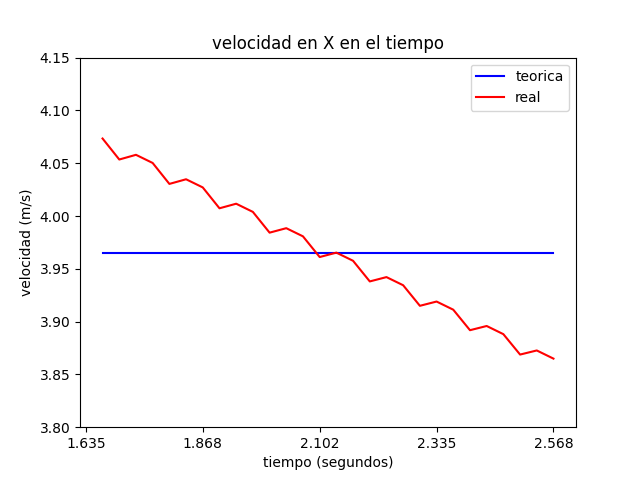
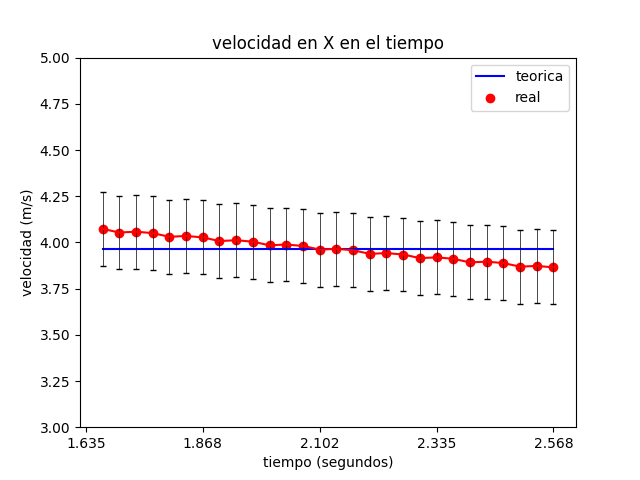
fix velocidad

diff --git a/src/basket-doble/pandas_procesing.py b/src/basket-doble/pandas_procesing.py
@@ -1,15 +1,17 @@
 import pandas as pd
 import matplotlib.pyplot as plt
 import numpy as np
+import src.Teoria_Errores.teoria_error_tiro_doble as error_vx
 
 #variables
 RUTA_CSV = "tablas/trackeo-suavizado-curve-fit-nuevo-origen.csv"
 RUTA_OUTPUT_CSV = "tablas/tabla-moviento-metros.csv"
-RUTA_CARPETA_IMAGENES = "graficos/" #Si esta carpeta no existe da error
+RUTA_CARPETA_IMAGENES = "graficos/"  #Si esta carpeta no existe da error
 
 ### este valor se calcula a partir comparar la medida de un objeto en el video y en la realidad
 ### debe ser calculado para cada video
 VALOR_PIXEL_METRO = 0.447 / 100
+
 
 def parsear_a_metros(valorPixel):
     """
@@ -22,6 +24,7 @@ def parsear_a_metros(valorPixel):
         float: El resultado de la multiplicación.
     """
     return valorPixel * VALOR_PIXEL_METRO
+
 
 def calcular_velocidad(tabla, columna):
     """
@@ -74,7 +77,7 @@ def calcular_aceleracion(tabla, columna):
 
 
 def graficar_velocidad_tiempo(tabla, coordenada, guardar_grafica=None, mostrar_grafica=None,
-                              limy1=None, limy2=None):
+                              limy1=None, limy2=None, error=0):
     """
     Genera un gráfico de dispersión de velocidad contra tiempo para una coordenada dada.
 
@@ -87,26 +90,26 @@ def graficar_velocidad_tiempo(tabla, coordenada, guardar_grafica=None, mostrar_g
     Returns:
         None
     """
-
     vel_coor = "velocity" + coordenada
     velocidad = tabla[vel_coor].iloc[1:]
-    velocidad_teorica = tabla["vel_"+coordenada+"_teorica"].iloc[1:]
+    velocidad_teorica = tabla["vel_" + coordenada + "_teorica"].iloc[1:]
     tiempo = tabla["Time"].iloc[1:]
     # tipo de grafico y variables a usar
-    fig , ax = plt.subplots()
+    fig, ax = plt.subplots()
     ax.plot(tiempo, velocidad_teorica, color="blue", label="teorica")
-    ax.plot(tiempo, velocidad, color="red", label="real")
+    ax.scatter(tiempo, velocidad, color="red", label="real")
     ax.legend()
     # etiquetas
     plt.xlabel('tiempo (segundos)')
     plt.ylabel('velocidad (m/s)')
     # titulo
-    plt.title('velocidad en '+coordenada+' en el tiempo')
+    plt.title('velocidad en ' + coordenada + ' en el tiempo')
 
+    plt.errorbar(tiempo, velocidad, yerr=error, color='red', ecolor='black', elinewidth=0.5, capsize=2)
 
     ajustar_etiquetas_tiempo(ax, tabla["Time"], 5)
 
-    if (limy1  and limy2):
+    if (limy1 and limy2):
         plt.ylim(limy1, limy2)
     if guardar_grafica:
         plt.savefig(RUTA_CARPETA_IMAGENES + "velocidad_tiempo_" + coordenada + ".png")
@@ -128,7 +131,7 @@ def graficar_posicion_tiempo(tabla, coordenada, guardar_grafica=None, mostrar_gr
         None
     """
     posicion = tabla[coordenada]
-    posicion_teorica = tabla["pos_"+coordenada+"_teorica"]
+    posicion_teorica = tabla["pos_" + coordenada + "_teorica"]
     tiempo = tabla["Time"]
     # tipo de grafico y variables a usar
     fig, ax = plt.subplots()
@@ -139,7 +142,7 @@ def graficar_posicion_tiempo(tabla, coordenada, guardar_grafica=None, mostrar_gr
     plt.xlabel('tiempo (segundos)')
     plt.ylabel('posicion (m)')
     # titulo
-    plt.title('posicion en '+coordenada+' en el tiempo')
+    plt.title('posicion en ' + coordenada + ' en el tiempo')
 
     ajustar_etiquetas_tiempo(ax, tabla["Time"], 5)
 
@@ -164,7 +167,7 @@ def graficar_aceleracion_tiempo(tabla, coordenada, guardar_grafica=None, mostrar
     """
     accCoor = "acceleration" + coordenada
     aceleracion = tabla[accCoor].iloc[2:]
-    aceleracion_teorica = tabla["acc_"+coordenada+"_teorica"].iloc[2:]
+    aceleracion_teorica = tabla["acc_" + coordenada + "_teorica"].iloc[2:]
     tiempo = tabla["Time"].iloc[2:]
     fig, ax = plt.subplots()
     # tipo de grafico y variables a usar
@@ -175,13 +178,14 @@ def graficar_aceleracion_tiempo(tabla, coordenada, guardar_grafica=None, mostrar
     plt.xlabel('tiempo (segundos)')
     plt.ylabel('aceleracion (m/s^2)')
     # titulo
-    plt.title('aceleracion en '+coordenada+' en el tiempo')
+    plt.title('aceleracion en ' + coordenada + ' en el tiempo')
     plt.ylim(-11, -8)
     ajustar_etiquetas_tiempo(ax, tabla["Time"], 5)
     if guardar_grafica:
         plt.savefig(RUTA_CARPETA_IMAGENES + "aceleracion_tiempo_" + coordenada + ".png")
     if mostrar_grafica:
         plt.show()
+
 
 def graficar_posicion_xy(tabla, guardar_grafica=None, mostrar_grafica=None):
     """
@@ -211,6 +215,7 @@ def graficar_posicion_xy(tabla, guardar_grafica=None, mostrar_grafica=None):
     if mostrar_grafica:
         plt.show()
 
+
 def agregar_datos_movimiento(tabla):
     """
         Agrega columnas de velocidad y aceleración a una tabla de datos.
@@ -230,12 +235,14 @@ def agregar_datos_movimiento(tabla):
 
     return tabla_nueva
 
+
 def generar_datos_teoricos(tabla):
     tabla_nueva = tabla.copy()
     tabla_nueva = generar_datos_x_teorica(tabla_nueva)
     tabla_nueva = generar_datos_y_teorica(tabla_nueva)
 
     return tabla_nueva
+
 
 def generar_datos_movimiento_metros(tabla):
     """
@@ -252,8 +259,9 @@ def generar_datos_movimiento_metros(tabla):
     tabla_nueva["Y"] = tabla_nueva["Y"].apply(parsear_a_metros)
     tabla_nueva = agregar_datos_movimiento(tabla_nueva)
 
-    tabla_nueva =  generar_datos_teoricos(tabla_nueva)
+    tabla_nueva = generar_datos_teoricos(tabla_nueva)
     return tabla_nueva
+
 
 def velocidad_inicial_x_teorica(tabla):
     """
@@ -268,6 +276,7 @@ def velocidad_inicial_x_teorica(tabla):
     delta_t = tabla["Time"].iloc[-1] - tabla["Time"].iloc[0]
     delta_x = tabla["X"].iloc[-1] - tabla["X"].iloc[0]
     return delta_x / delta_t
+
 
 def velocidad_inicial_y_teorica(tabla):
     """
@@ -284,7 +293,8 @@ def velocidad_inicial_y_teorica(tabla):
     y_inicial = tabla["Y"].iloc[0]
     g = 9.81
 
-    return (y_final - y_inicial + g * (t ** 2) * 0.5)/t
+    return (y_final - y_inicial + g * (t ** 2) * 0.5) / t
+
 
 def calcular_posicion_x(x_inicial, v_inicial, t):
     """
@@ -298,6 +308,7 @@ def calcular_posicion_x(x_inicial, v_inicial, t):
             float: La posición en el eje x después del tiempo t.
         """
     return (x_inicial + v_inicial * t).round(6)
+
 
 def calcular_posicion_y(y_inicial, v_inicial, t):
     """
@@ -315,11 +326,12 @@ def calcular_posicion_y(y_inicial, v_inicial, t):
     g = 9.81
     return (y_inicial + v_inicial * t - 0.5 * g * (t ** 2)).round(6)
 
+
 def generar_datos_x_teorica(tabla):
     tabla_nueva = tabla.copy()
     x_inicial = tabla_nueva["X"].iloc[0]
     v_inicial = velocidad_inicial_x_teorica(tabla_nueva)
-    tiempo = tabla_nueva["Time"]-tabla_nueva["Time"].iloc[0]
+    tiempo = tabla_nueva["Time"] - tabla_nueva["Time"].iloc[0]
     tabla_nueva["pos_X_teorica"] = calcular_posicion_x(x_inicial, v_inicial, tiempo)
     tabla_nueva["vel_X_teorica"] = v_inicial
 
@@ -346,16 +358,19 @@ def generar_datos_y_teorica(tabla):
 
     return tabla_nueva
 
+
 def energia_cinetica(tabla):
-    velocidad_x : float = pd.to_numeric(tabla["velocityX"], errors="coerce")
-    velocidad_y : float = pd.to_numeric(tabla["velocityY"], errors="coerce")
-    return 0.5 * 0.62 * ((np.sqrt(velocidad_x** 2 + velocidad_y ** 2)) ** 2)
+    velocidad_x: float = pd.to_numeric(tabla["velocityX"], errors="coerce")
+    velocidad_y: float = pd.to_numeric(tabla["velocityY"], errors="coerce")
+    return 0.5 * 0.62 * ((np.sqrt(velocidad_x ** 2 + velocidad_y ** 2)) ** 2)
+
 
 def energia_potencial(tabla):
-    pos_y : float = pd.to_numeric(tabla["Y"], errors="coerce")
+    pos_y: float = pd.to_numeric(tabla["Y"], errors="coerce")
     gravedad = np.abs(np.mean(tabla["accelerationY"].iloc[3:]))
     print('Gravedad promedio: ' + str(round(gravedad, 2)))
     return gravedad * 0.62 * pos_y
+
 
 def generar_datos_energia(tabla):
     tabla_nueva = tabla.copy()
@@ -364,8 +379,8 @@ def generar_datos_energia(tabla):
     tabla_nueva["Energia_mecanica"] = tabla_nueva["Energia_cinetica"] + tabla_nueva["Energia_potencial"]
     return tabla_nueva
 
-def graficar_energia(tabla,guardar_grafica=None, mostrar_grafica=None):
 
+def graficar_energia(tabla, guardar_grafica=None, mostrar_grafica=None):
     # Crear una figura con dos líneas para representar las energías
     fig, ax = plt.subplots()
 
@@ -415,12 +430,11 @@ def ajustar_etiquetas_tiempo(ax, tiempo, num_labels):
 
 def post_procesamiento(tabla):
     tabla_practico = tabla[["Time", "X", "Y", "velocityX", "velocityY", "accelerationY",
-                         "Energia_cinetica", "Energia_potencial", "Energia_mecanica"]]
+                            "Energia_cinetica", "Energia_potencial", "Energia_mecanica"]]
     tabla_teorico = tabla[['Time', 'pos_X_teorica', 'pos_Y_teorica', 'vel_X_teorica', 'vel_Y_teorica', 'acc_Y_teorica']]
 
     tabla_practico.to_csv("tablas/tabla-moviento-metros-practico.csv", index=False)
     tabla_teorico.to_csv("tablas/tabla-moviento-metros-teorico.csv", index=False)
-
 
 
 def main():
@@ -434,10 +448,10 @@ def main():
     tabla_movimiento = generar_datos_movimiento_metros(tabla_movimiento)
     # graficos de la coordenada x
     graficar_posicion_tiempo(tabla_movimiento, "X", 1, MOSTRAR_GRAFICOS)
-    graficar_velocidad_tiempo(tabla_movimiento, "X", 1, MOSTRAR_GRAFICOS,3.8, 4.15)
+    graficar_velocidad_tiempo(tabla_movimiento, "X", 1, MOSTRAR_GRAFICOS, 3, 5, 0.2)
     # graficos de la coordenada y
     graficar_posicion_tiempo(tabla_movimiento, "Y", 1, MOSTRAR_GRAFICOS)
-    graficar_velocidad_tiempo(tabla_movimiento, "Y", 1, MOSTRAR_GRAFICOS)
+    graficar_velocidad_tiempo(tabla_movimiento, "Y", 1, MOSTRAR_GRAFICOS, error=0.4)
     graficar_aceleracion_tiempo(tabla_movimiento, "Y", 1, MOSTRAR_GRAFICOS)
     # graficar posicion de x respecto a y
     graficar_posicion_xy(tabla_movimiento, 1, MOSTRAR_GRAFICOS)
@@ -450,6 +464,7 @@ def main():
     tabla_movimiento.to_csv(RUTA_OUTPUT_CSV, index=False)
 
     post_procesamiento(tabla_movimiento)
+
+
 if __name__ == "__main__":
     main()
-
